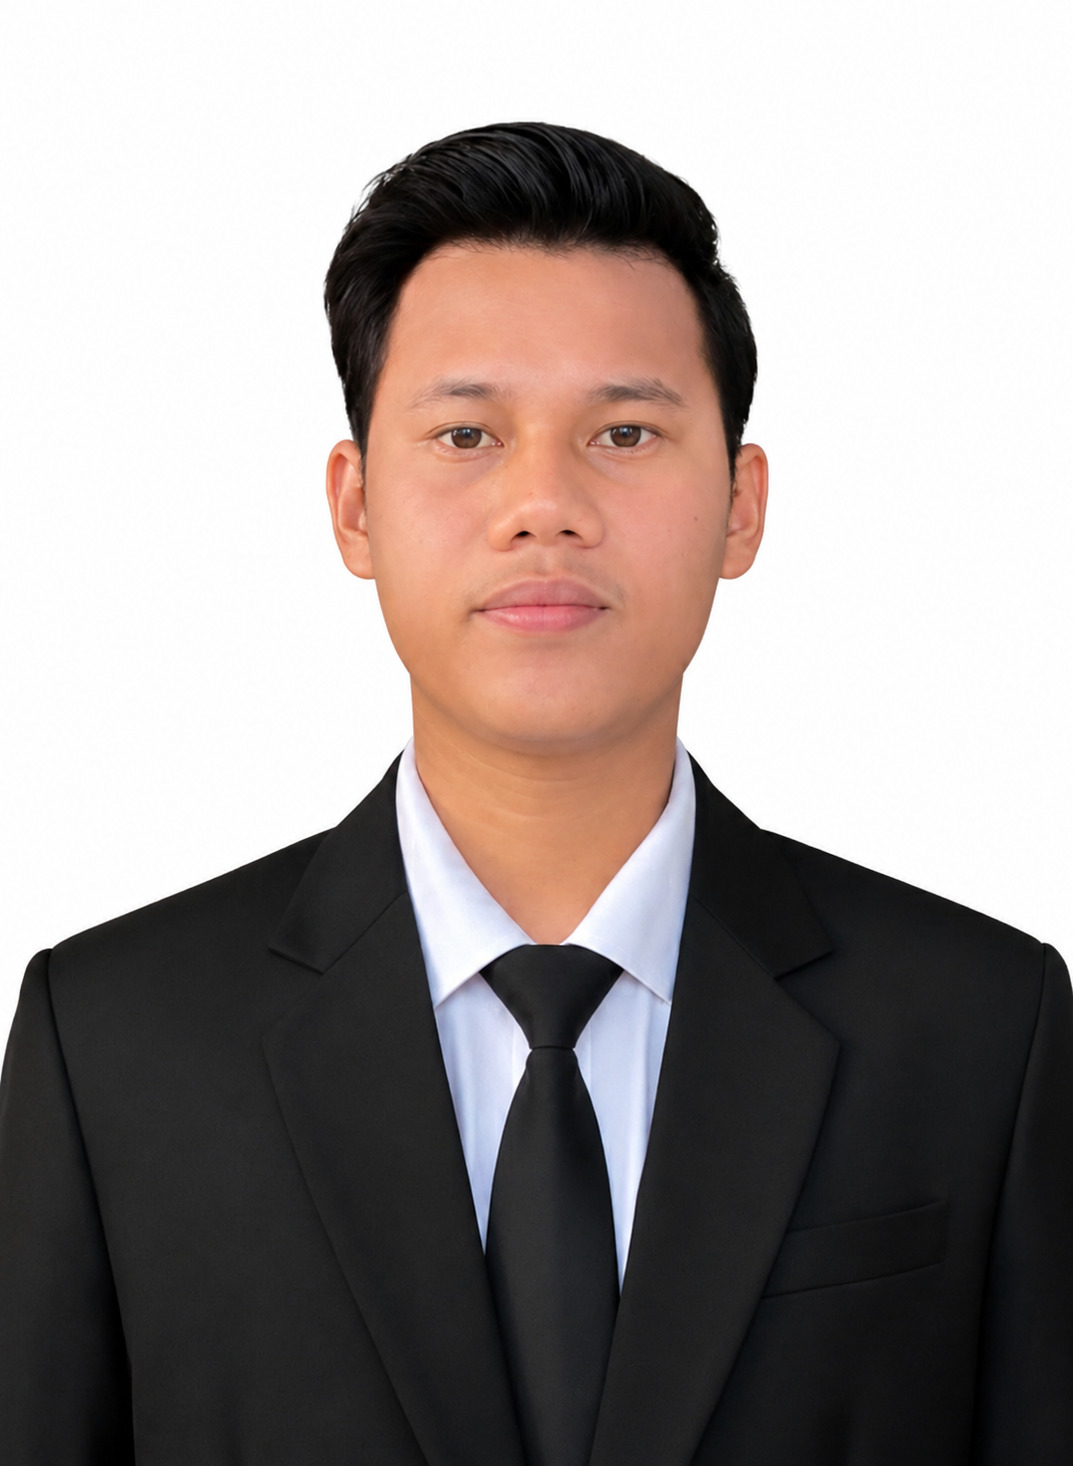
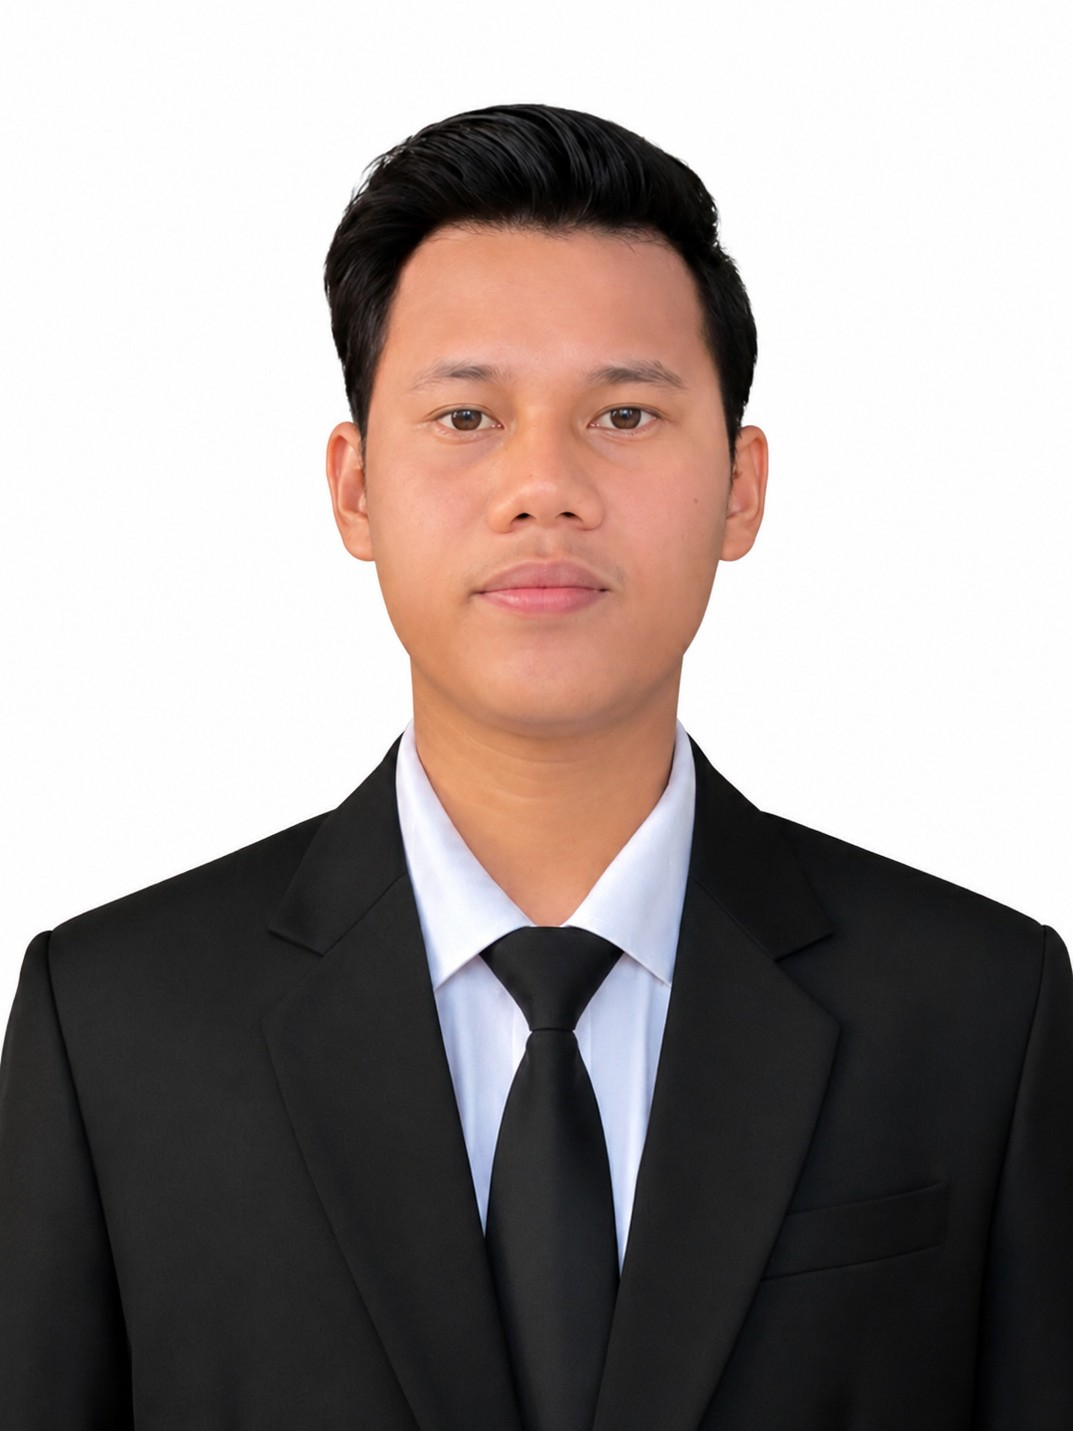
update

diff --git a/src/views/AboutView.vue b/src/views/AboutView.vue
@@ -1,5 +1,5 @@
 <script>
-import profilePicture from "@/assets/araya.jpg";
+import profilePicture from "@/assets/pc2.jpeg";
 import CppIcon from "@/assets/c-.png";
 import PythonIcon from "@/assets/python.png";
 import JavaIcon from "@/assets/java.png";

diff --git a/src/views/HomeView.vue b/src/views/HomeView.vue
@@ -50,7 +50,7 @@
 </template>
 
 <script>
-import profilePicture from '@/assets/araya.jpg'
+import profilePicture from '@/assets/pc3.jpeg'
 
 export default {
   name: 'HomeView',
